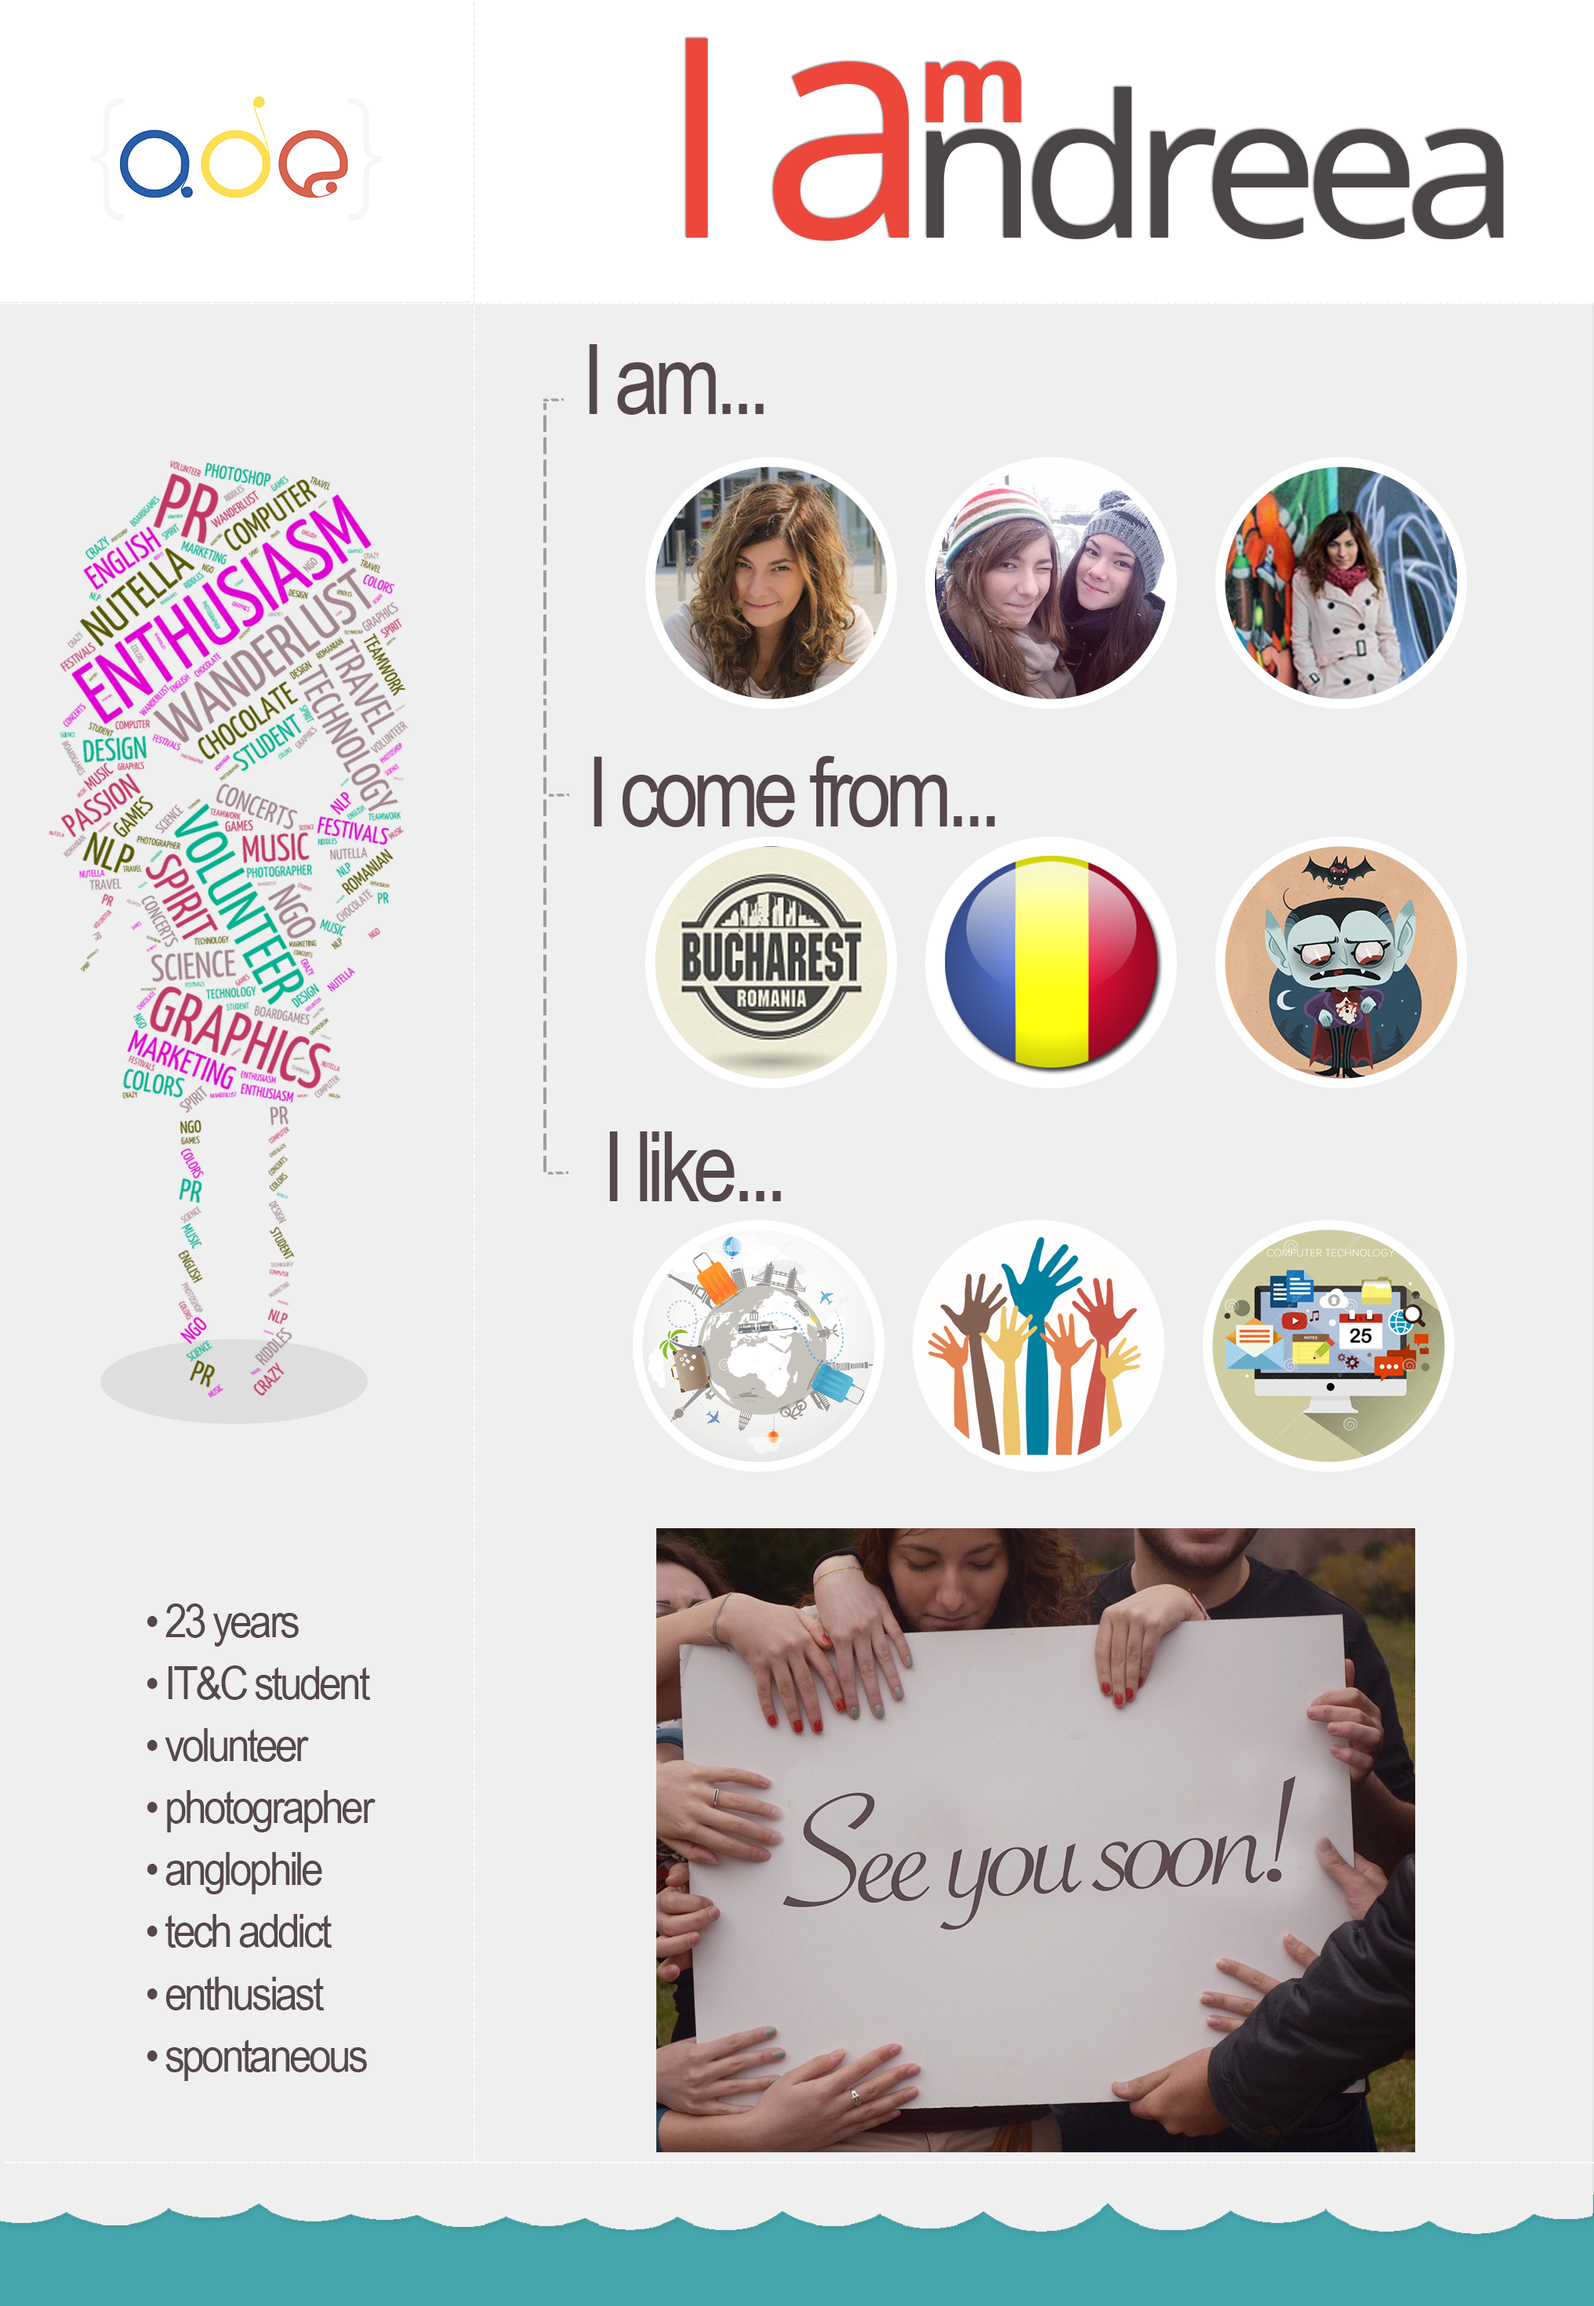
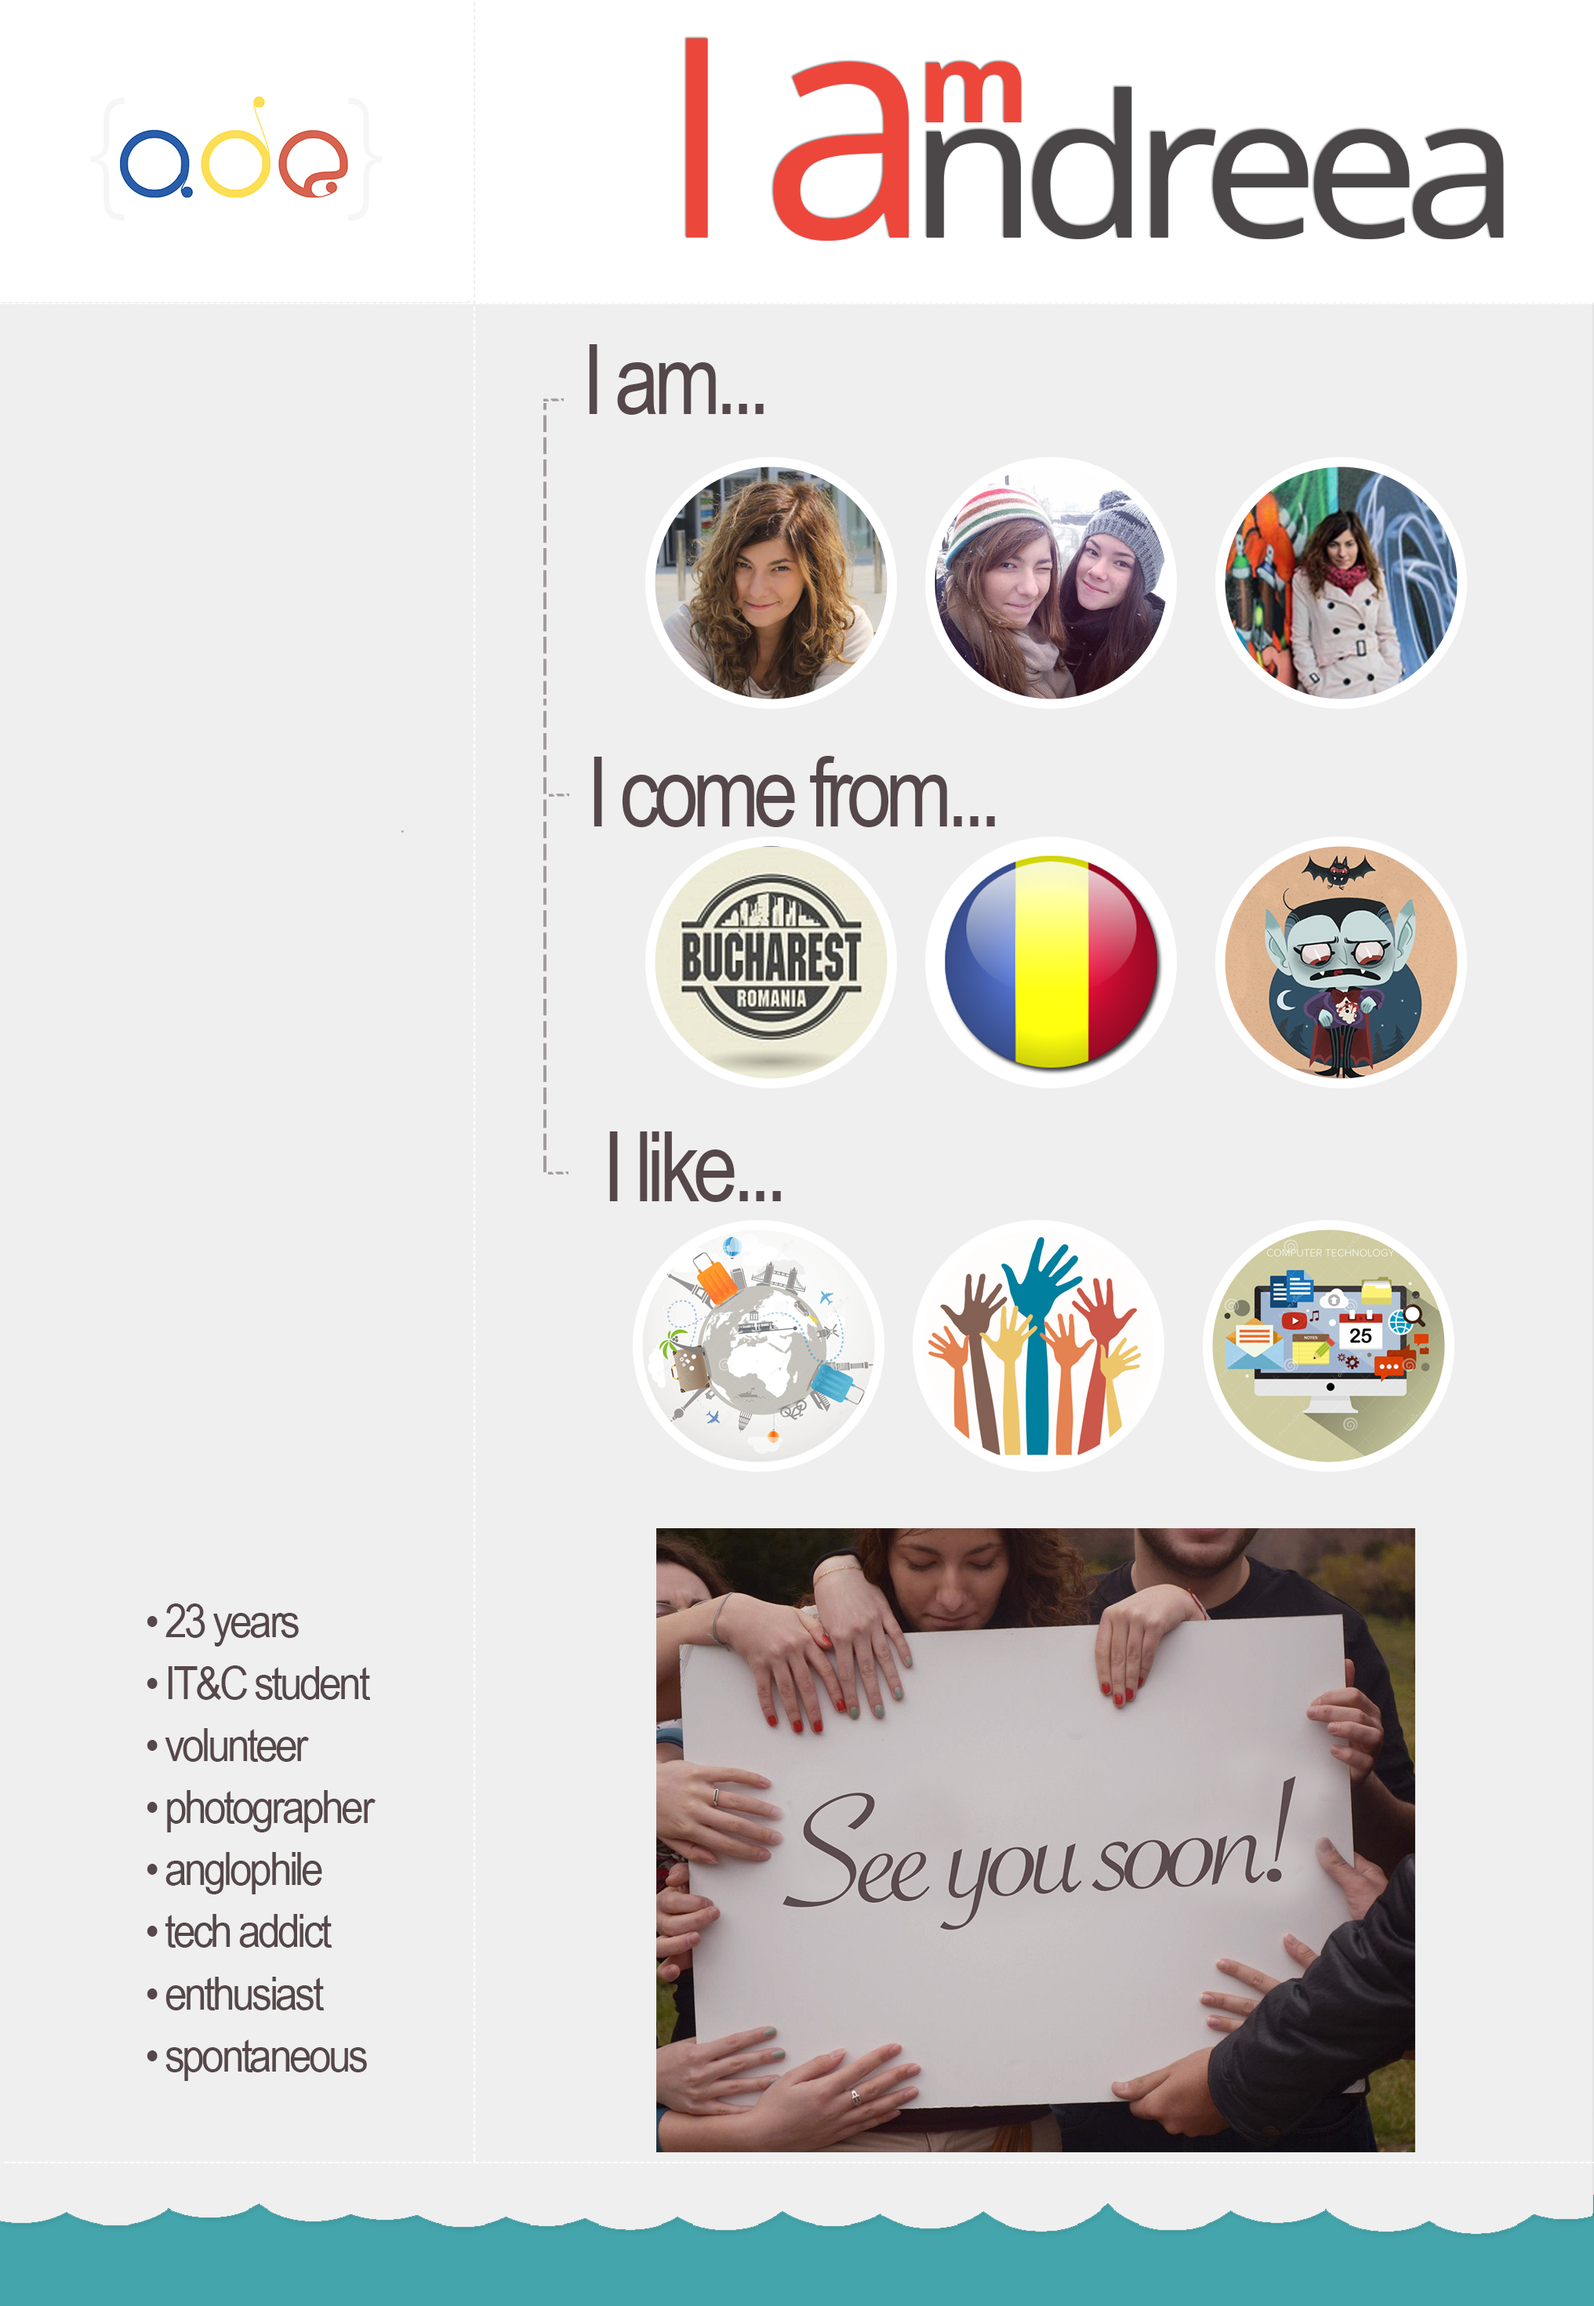
Illustration removed and script added

Changed region(s): [[0.031, 0.1857, 0.2479, 0.6188]]

diff --git a/index.html b/index.html
@@ -6,11 +6,14 @@
 
 	<body>
 		<img src="img/iandreea.png" width="100%">
+		<div class="illustration" style="width: 110%; height: 110%; padding-bottom: 10px;">
+			<script src="http://cdn.tagul.com/embed/kxt64vs4xba7"></script>
+		</div>
 	 </body>
   
   
 	<footer>
-		<div class="text"> copyright &copy; <?php echo date("Y"); ?>Andreea-Daniela Ene</div>
+		<div class="text"> copyright &copy 2015 Andreea-Daniela Ene</div>
 	</footer>
 
 
@@ -61,6 +64,12 @@
 		img {
 			position: relative;
 			margin: auto;
+		}
+		
+		.illustration {
+			position: absolute;
+			top: 40%;
+			left: -40%;
 		}
 	</style>
 </html>
